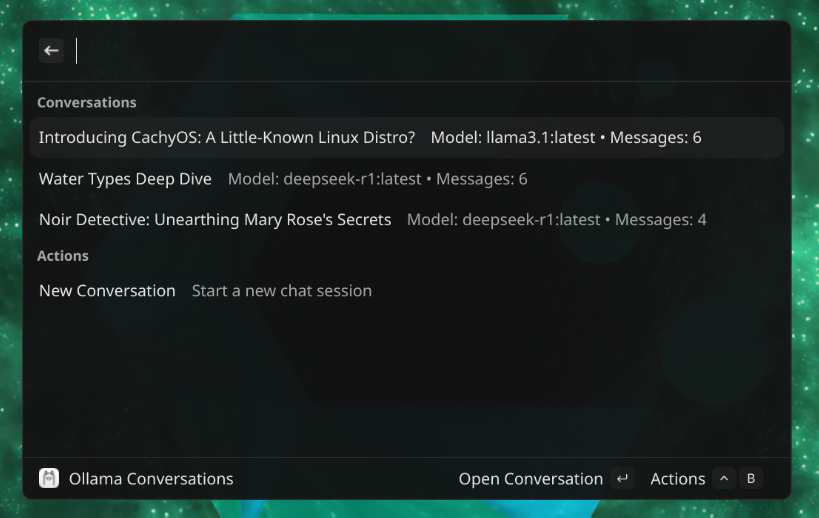
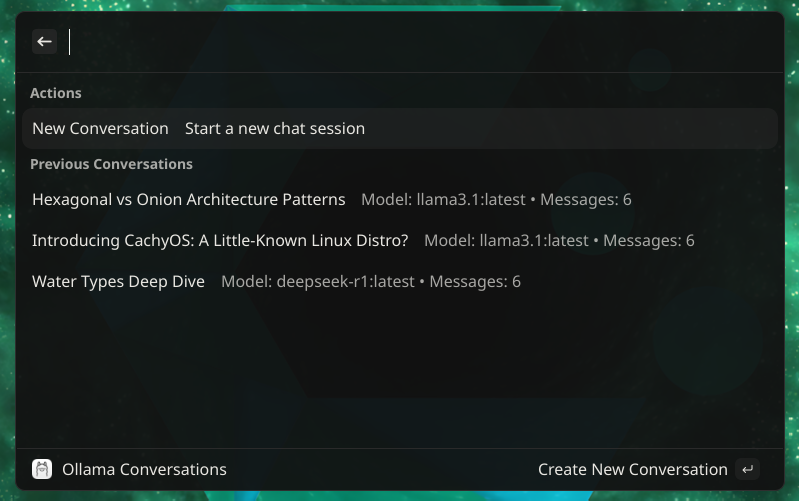
feat(ollama): update screenshots, chat view and thread view

Changed region(s): [[0.0, 0.0, 1.0, 1.0], [0.0601, 0.0898, 0.0901, 0.1198]]

diff --git a/extensions/ollama/src/components/ThreadListView.tsx b/extensions/ollama/src/components/ThreadListView.tsx
@@ -19,7 +19,21 @@ export function ThreadListView({
 }: ThreadListViewProps) {
   return (
     <List isLoading={isLoading} navigationTitle="Ollama Conversations">
-      <List.Section title="Conversations">
+      <List.Section title="Actions">
+        <List.Item
+          title="New Conversation"
+          subtitle="Start a new chat session"
+          actions={
+            <ActionPanel>
+              <Action
+                title="Create New Conversation"
+                onAction={onCreateNew}
+              />
+            </ActionPanel>
+          }
+        />
+      </List.Section>
+      <List.Section title="Previous Conversations">
         {threads.length === 0 ? (
           <List.Item
             title="No conversations yet"
@@ -48,21 +62,6 @@ export function ThreadListView({
           ))
         )}
       </List.Section>
-      <List.Section title="Actions">
-        <List.Item
-          title="New Conversation"
-          subtitle="Start a new chat session"
-          actions={
-            <ActionPanel>
-              <Action
-                title="Create New Conversation"
-                onAction={onCreateNew}
-              />
-            </ActionPanel>
-          }
-        />
-      </List.Section>
     </List>
   );
 }
-

diff --git a/extensions/ollama/src/components/ChatView.tsx b/extensions/ollama/src/components/ChatView.tsx
@@ -59,7 +59,6 @@ export function ChatView({
             key={msg.id}
             title={msg.role === 'user' ? '👤 You' : '🦙 Ollama'}
             subtitle={msg.content}
-            accessories={[{ text: msg.role }]}
             actions={
               <ActionPanel>
                 <Action.Push
